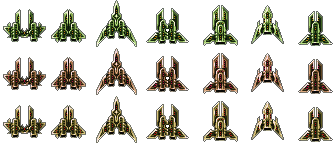
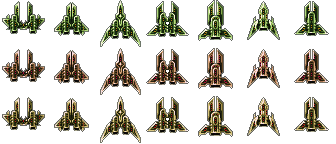
ship select now functions properly

diff --git a/client/style.css b/client/style.css
@@ -26,8 +26,8 @@ body {
 .teamBtn {
     font-size: 18px;
     color: #f2e8d5;
-    line-height:56px;
-    height: 56px;
+    line-height:46px;
+    height: 46px;
     width: 119px;
     margin: 0 4px;
     display: inline-block;
@@ -48,7 +48,7 @@ body {
 }
 
 #shipSelectSection {
-    margin-top: 20px;
+    margin-top: 26px;
 }
 
 .shipChoice {
@@ -63,9 +63,10 @@ body {
     /*background: #3B5998;*/
     position: relative;
     border-radius: 5px;
+}
 
-    /*top: 50%;*/
-    /*transform: translateY(-50%);*/
+.selectedShip {
+    box-shadow: 0 0 5px 1px #fff;
 }
 
 #selectShipText {
@@ -82,7 +83,7 @@ body {
     font-family: sans-serif;
     font-size: 18px;
     box-shadow: none;
-    border-radius: none;
+    /*border-radius: none;*/
     border-radius: 5px;
 
     padding: 10px;
@@ -99,13 +100,13 @@ body {
 #joinBtn {
     background: #e0e0e0;
     display: inline-block;
-    margin: 0;
+    /*margin: 0;*/
     height: 23px;
     width: 165px;
     font-family: sans-serif;
     font-size: 18px;
     box-shadow: none;
-    border-radius: none;
+    /*border-radius: none;*/
     padding: 10px;
     margin: 3px;
     border-radius: 5px;
@@ -136,88 +137,88 @@ body {
 
 /*Green Ships*/
 .shipGreen1 {
-    background: url(images/ships.PNG) 0 0;
+    background: url(images/ships.png) 0 0;
 }
 
 .shipGreen2 {
-    background: url(images/ships.PNG) -48px 0;
+    background: url(images/ships.png) -48px 0;
 }
 
 .shipGreen3 {
-    background: url(images/ships.PNG) -96px 0;
+    background: url(images/ships.png) -96px 0;
 }
 
 .shipGreen4 {
-    background: url(images/ships.PNG) -144px 0;
+    background: url(images/ships.png) -144px 0;
 }
 
 .shipGreen5 {
-    background: url(images/ships.PNG) -192px 0;
+    background: url(images/ships.png) -192px 0;
 }
 
 .shipGreen6 {
-    background: url(images/ships.PNG) -240px 0;
+    background: url(images/ships.png) -240px 0;
 }
 
 .shipGreen7 {
-    background: url(images/ships.PNG) -288px 0;
+    background: url(images/ships.png) -288px 0;
 }
 
 
 /*Red Ships*/
 .shipRed1 {
-    background: url(images/ships.PNG) 0 -48px;
+    background: url(images/ships.png) 0 -48px;
 }
 
 .shipRed2 {
-    background: url(images/ships.PNG) -48px -48px;
+    background: url(images/ships.png) -48px -48px;
 }
 
 .shipRed3 {
-    background: url(images/ships.PNG) -96px -48px;
+    background: url(images/ships.png) -96px -48px;
 }
 
 .shipRed4 {
-    background: url(images/ships.PNG) -144px -48px;
+    background: url(images/ships.png) -144px -48px;
 }
 
 .shipRed5 {
-    background: url(images/ships.PNG) -192px -48px;
+    background: url(images/ships.png) -192px -48px;
 }
 
 .shipRed6 {
-    background: url(images/ships.PNG) -240px -48px;
+    background: url(images/ships.png) -240px -48px;
 }
 
 .shipRed7 {
-    background: url(images/ships.PNG) -288px -48px;
+    background: url(images/ships.png) -288px -48px;
 }
 
 /*Gold Ships*/
 .shipGold1 {
-    background: url(images/ships.PNG) 0 -96px;
+    background: url(images/ships.png) 0 -96px;
 }
 
 .shipGold2 {
-    background: url(images/ships.PNG) -48px -96px;
+    background: url(images/ships.png) -48px -96px;
 }
 
 .shipGold3 {
-    background: url(images/ships.PNG) -96px -96px;
+    background: url(images/ships.png) -96px -96px;
 }
 
 .shipGold4 {
-    background: url(images/ships.PNG) -144px -96px;
+    background: url(images/ships.png) -144px -96px;
 }
 
 .shipGold5 {
-    background: url(images/ships.PNG) -192px -96px;
+    background: url(images/ships.png) -192px -96px;
 }
 
 .shipGold6 {
-    background: url(images/ships.PNG) -240px -96px;
+    background: url(images/ships.png) -240px -96px;
 }
 
 .shipGold7 {
-    background: url(images/ships.PNG) -288px -96px;
+    background: url(images/ships.png) -288px -96px;
 }

diff --git a/client/game.js b/client/game.js
@@ -21,19 +21,17 @@ function GameController(socket) {
         var color = $(this).attr('id');
         console.log('team was clicked and this is : ', this);
         $('#selectShipText').text('Select a Ship');
-        $('#shipChoice1').attr('class', 'shipChoice ship' + color + '1');
-        $('#shipChoice2').attr('class', 'shipChoice ship' + color + '2');
-        $('#shipChoice3').attr('class', 'shipChoice ship' + color + '3');
-        $('#shipChoice4').attr('class', 'shipChoice ship' + color + '4');
-        $('#shipChoice5').attr('class', 'shipChoice ship' + color + '5');
-        $('#shipChoice6').attr('class', 'shipChoice ship' + color + '6');
-        $('#shipChoice7').attr('class', 'shipChoice ship' + color + '7');
+
+        for (var i = 1; i < 8; i++){
+            $('#shipChoice' + i).attr('class', 'shipChoice ship' + color + i);
+        }
     };
 
     this.shipSelected = function(){
       //store value
         console.log('click and this is : ', this);
-        $(this).attr('style', 'box-shadow:  0 0 5px 1px #fff')
+        $('.shipChoice').removeClass('selectedShip');
+        $(this).addClass('selectedShip');
     };
 
     this.instantiateMap = function (mapLoadedHandler, options) {
@@ -42,11 +40,11 @@ function GameController(socket) {
         }
         this.mapController = new GameMap();
         this.mapController.init('map/data/map1.json', mapLoadedHandler, options);
-    }
+    };
     this.handleMapLoad = function (mapElement) {
         console.log('map is loaded');
         this.gameArea.append(mapElement);
-    }
+    };
 
     this.makeShip = function (initPack) {
         // console.log('putting together new ship');
